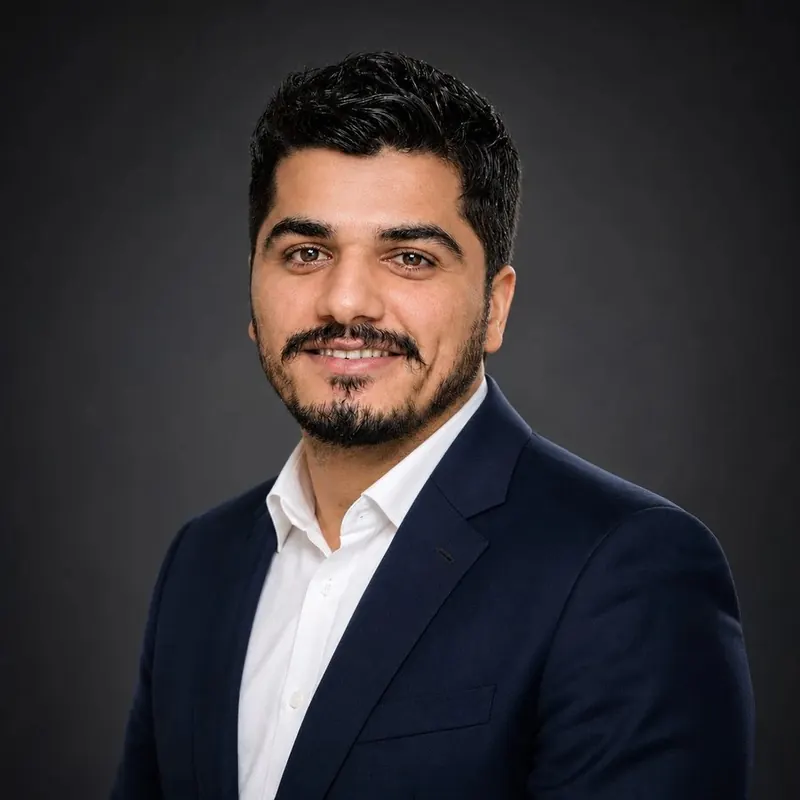
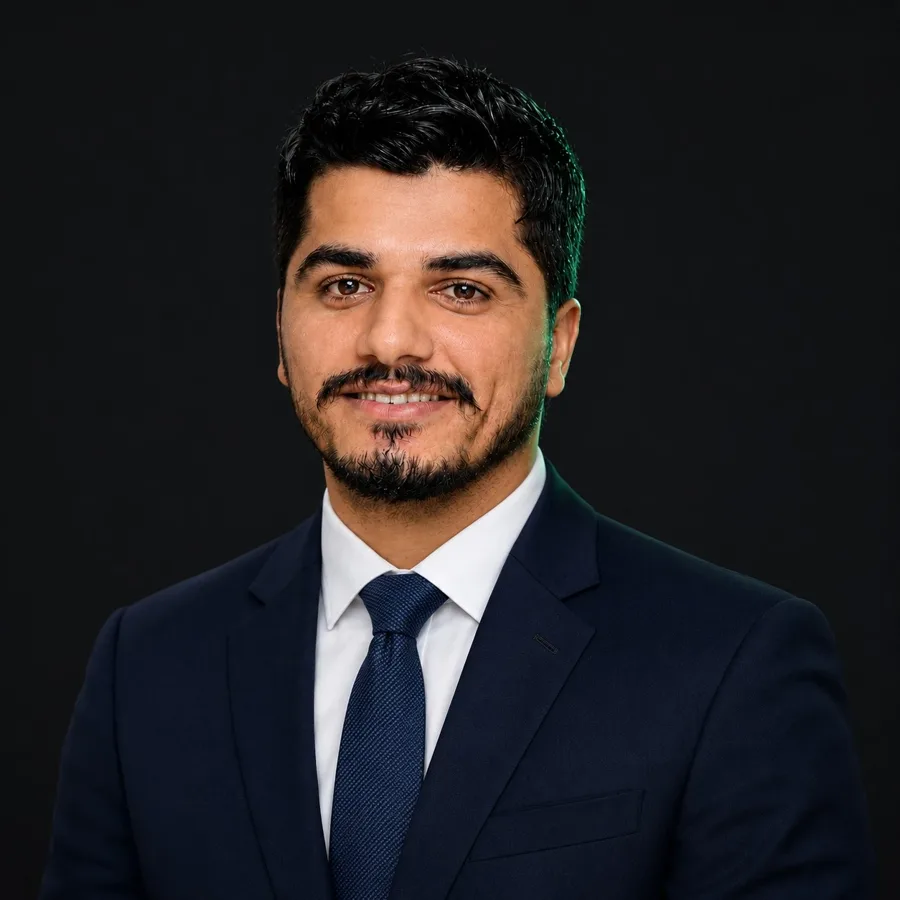
Team: new photos, updated profiles, add Tahreem Afzal and Kawish Khan, rename Syed Sheraz

diff --git a/src/data.js b/src/data.js
@@ -129,7 +129,7 @@ export const PROMISES = [
 export const FOUNDER = {
   name: 'Shah Mohsin', // TODO: confirm spelling
   role: 'Founder & CEO',
-  img: '/ceo.webp',
+  img: '/team-mohsin.webp',
   quote: 'I started eTricks because I wanted store owners to know who is working on their business, what has been done and where we need their input.',
   principles: [
     ['Know who is working on your business', 'Every client should be able to name the people behind their store, and reach them.'],
@@ -156,9 +156,9 @@ export const TEAM = [
     focus: ['Strategy', 'Client relationships', 'Growth', 'Culture'],
     talkAbout: ['Long-term plans and partnerships', 'Anything you want escalated', 'Feedback on how we work'] },
 
-  { n: 'Syed Shahraz', r: 'Operations Manager', dept: 'Operations', img: '/team-shahraz.webp', facts: [],
+  { n: 'Syed Sheraz', r: 'Operations Manager', dept: 'Operations', img: '/team-shahraz.webp', facts: [],
     summary: 'Keeps the daily work moving across every department.',
-    about: 'Syed Shahraz looks after how the work gets done day to day. He coordinates the department teams, keeps tasks moving and makes sure every project has an owner, so clients get steady attention and clear updates.',
+    about: 'Syed Sheraz looks after how the work gets done day to day. He coordinates the department teams, keeps tasks moving and makes sure every project has an owner, so clients get steady attention and clear updates.',
     handles: [
       ['Daily operations', "Keeps each store's routine tasks on schedule."],
       ['Cross-team coordination', 'Connects listings, support, growth and development so nothing falls between teams.'],
@@ -170,39 +170,63 @@ export const TEAM = [
 
   { n: 'Talha Syed', r: 'Head of E-Commerce Operations', dept: 'E-Commerce', img: '/team-talha.webp', facts: [],
     summary: 'Leads the teams that run client stores across the marketplaces.',
-    about: 'Talha Syed leads eTricks e-commerce operations. His teams manage client stores across Amazon, eBay, TikTok Shop, Etsy, Walmart, Shopify and Temu: listings, orders, stock and account health, so owners can focus on the business.',
+    about: 'Talha Syed leads e-commerce operations at eTricks. He oversees client stores across Amazon, eBay, TikTok Shop, Etsy, Walmart, Shopify, and Temu. He coordinates store teams, keeps clients updated on performance, and follows up on issues through resolution.',
     handles: [
-      ['Marketplace store management', 'Daily store tasks across every platform we manage.'],
-      ['Listings and catalogue', 'Creation, optimisation and regular updates.'],
-      ['Orders and inventory', 'Keeps orders flowing and stock in sync.'],
-      ['Account health', 'Monitors performance and leads recovery cases when an account is restricted.'],
+      ['Operations Oversight', 'Reviews daily store activity and account health.'],
+      ['Team Management', 'Sets priorities with team leads and tracks progress.'],
+      ['Client Updates', 'Shares store performance, completed work, and next steps.'],
+      ['Query & Issue Resolution', 'Answers client queries and follows up until issues are resolved.'],
     ],
     focus: ['Marketplaces', 'Listings', 'Orders', 'Account health'],
     talkAbout: ['Running or fixing a store on any platform', 'Listing and catalogue problems', 'Suspended or restricted accounts'] },
 
-  { n: 'Muhammad Hamza', r: 'Business Development Manager & Team Leader', dept: 'Growth', img: '/team-hamza.webp', facts: [],
-    summary: 'First point of contact for new clients, and leads his project team.',
-    about: 'Muhammad Hamza is usually the first person a new client speaks to. He listens to what a business needs, shapes a clear scope and proposal, and leads the team that takes the work forward once it starts.',
+  { n: 'Muhammad Hamza', r: 'Business Development Manager', dept: 'Growth', img: '/team-hamza.webp', facts: [],
+    summary: 'Leads business development and scopes new projects with prospective clients.',
+    about: 'Muhammad Hamza leads business development and lead generation at eTricks. He works with prospective clients to understand their goals, define the scope of new projects, and identify where automation can reduce manual work.',
     handles: [
-      ['New enquiries', 'Understands your store, goals and challenges in the first conversation.'],
-      ['Scope and proposals', 'Turns your needs into a clear plan, price and next steps.'],
-      ['Market planning', 'Helps decide which platforms and markets fit your business.'],
-      ['Team leadership', 'Leads a project team and keeps it aligned with the client.'],
+      ['Lead Generation & Outreach', 'Identifies potential clients and manages outreach and follow-ups.'],
+      ['Client Discovery', 'Discusses business goals, current challenges, and project requirements.'],
+      ['Project Scope & Proposals', 'Defines deliverables, pricing, and next steps for new projects.'],
+      ['Automation Planning', 'Reviews manual workflows and identifies tasks and reporting that can be automated.'],
     ],
-    focus: ['Business development', 'Proposals', 'Market planning', 'Team leadership'],
-    talkAbout: ['Starting a project with eTricks', 'Choosing platforms and markets', 'Pricing and scope'] },
+    focus: ['Business Development', 'Lead Generation', 'Project Scoping', 'Workflow Automation'],
+    talkAbout: ['Starting a project with eTricks', 'Project scope, pricing, and proposals', 'Automating repetitive tasks and reporting'] },
 
-  { n: 'Team Leader', r: 'Team Leader & Trainer', dept: 'Training', img: '/team-trainer.webp', facts: [], // TODO: add this person's name
-    summary: 'Leads a project team and trains every new member.',
-    about: 'Leads a team day to day and trains new members, so the standard of work stays the same on every account, no matter who is handling it.',
+  { n: 'Muhammad Zeeshan', r: 'eBay Trainer', dept: 'Training', img: '/team-trainer.webp', facts: [],
+    summary: 'Trains students and freshers to run an eBay store from scratch.',
+    about: 'Muhammad Zeeshan helps students and freshers learn how to manage an eBay store from scratch. His training starts with Seller Hub basics and builds towards practical tasks like researching products, creating listings, and handling orders.',
     handles: [
-      ['Team leadership', 'Guides a project team through the daily work.'],
-      ['Training and onboarding', 'Brings new team members up to the eTricks standard.'],
-      ['Playbooks and standards', 'Keeps the way we work consistent and written down.'],
-      ['Quality coaching', 'Reviews work and coaches the team to improve.'],
+      ['eBay Basics', 'Introduces beginners to Seller Hub and how an eBay store operates.'],
+      ['Product Research & Listings', 'Teaches learners how to compare products and create listings with clear titles and accurate item details.'],
+      ['Orders & Buyer Support', 'Walks learners through order tracking, buyer messages, and returns.'],
+      ['Practice & Feedback', 'Reviews practice tasks and shows learners what to improve before handling live store work.'],
     ],
-    focus: ['Training', 'Onboarding', 'Standards', 'Coaching'],
-    talkAbout: ['How our team is trained', 'Standards and quality on your account', 'Joining the team'] },
+    focus: ['Beginner Training', 'Product Research', 'Listing Optimisation', 'Store Operations'],
+    talkAbout: ['Getting started with eBay without prior experience', 'What you’ll learn and practise during training', 'Preparing for your first eBay operations role'] },
+
+  { n: 'Tahreem Afzal', r: 'Marketplace Performance Manager', dept: 'E-Commerce', img: '/team-tahreem.webp', facts: [],
+    summary: 'Reviews how client stores perform and finds where to improve them.',
+    about: 'Tahreem Afzal reviews how client stores perform across the marketplaces eTricks manages. She uses sales, conversion, and advertising data to identify where listings, pricing, or promotions can improve. She works with store teams to make those changes and tracks their impact.',
+    handles: [
+      ['Store Performance Reviews', 'Tracks sales, conversion rates, and advertising performance.'],
+      ['Listing & Pricing Optimisation', 'Identifies which products need listing updates or pricing changes.'],
+      ['Advertising & Promotions', 'Reviews campaign results and recommends where to adjust spend.'],
+      ['Performance Follow-Up', 'Coordinates changes with store teams and measures the results.'],
+    ],
+    focus: ['Marketplace Analytics', 'Listing Optimisation', 'Pricing Strategy', 'Advertising Performance'],
+    talkAbout: ['How your store and products are performing', 'Which listings, prices, or promotions to review', 'What changed after a store update or campaign'] },
+
+  { n: 'Kawish Khan', r: 'Client Success Manager', dept: 'Client Success', img: '/team-kawish.webp', facts: [],
+    summary: 'Point of contact for clients from onboarding onward.',
+    about: 'Kawish Khan is a point of contact for eTricks clients from onboarding onward. She keeps clients informed about their stores, coordinates requests with the teams managing them, and follows up until clients have a clear answer or next step.',
+    handles: [
+      ['Client Onboarding', 'Confirms client goals, priorities, and reporting preferences.'],
+      ['Client Updates & Reporting', 'Shares store performance, completed work, and upcoming priorities.'],
+      ['Queries & Issue Resolution', 'Answers client questions and follows up with the relevant team.'],
+      ['Feedback & Follow-Up', 'Collects client feedback and tracks agreed actions through completion.'],
+    ],
+    focus: ['Client Onboarding', 'Performance Reporting', 'Issue Resolution', 'Client Feedback'],
+    talkAbout: ['What to expect when you start with eTricks', 'Your store updates, reports, and next steps', 'Questions, concerns, or feedback about your account'] },
 ]
 
 export const FAQS = [
